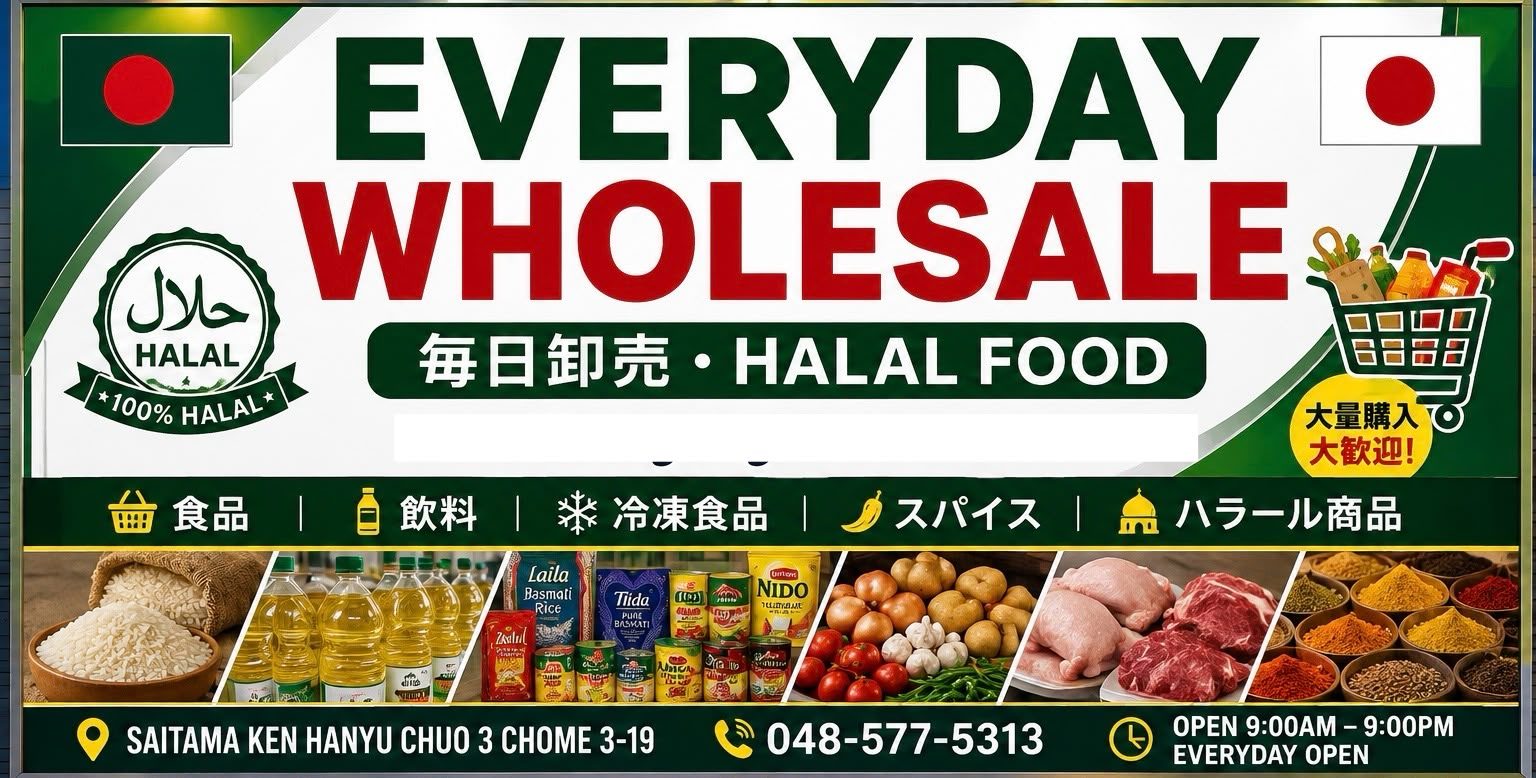
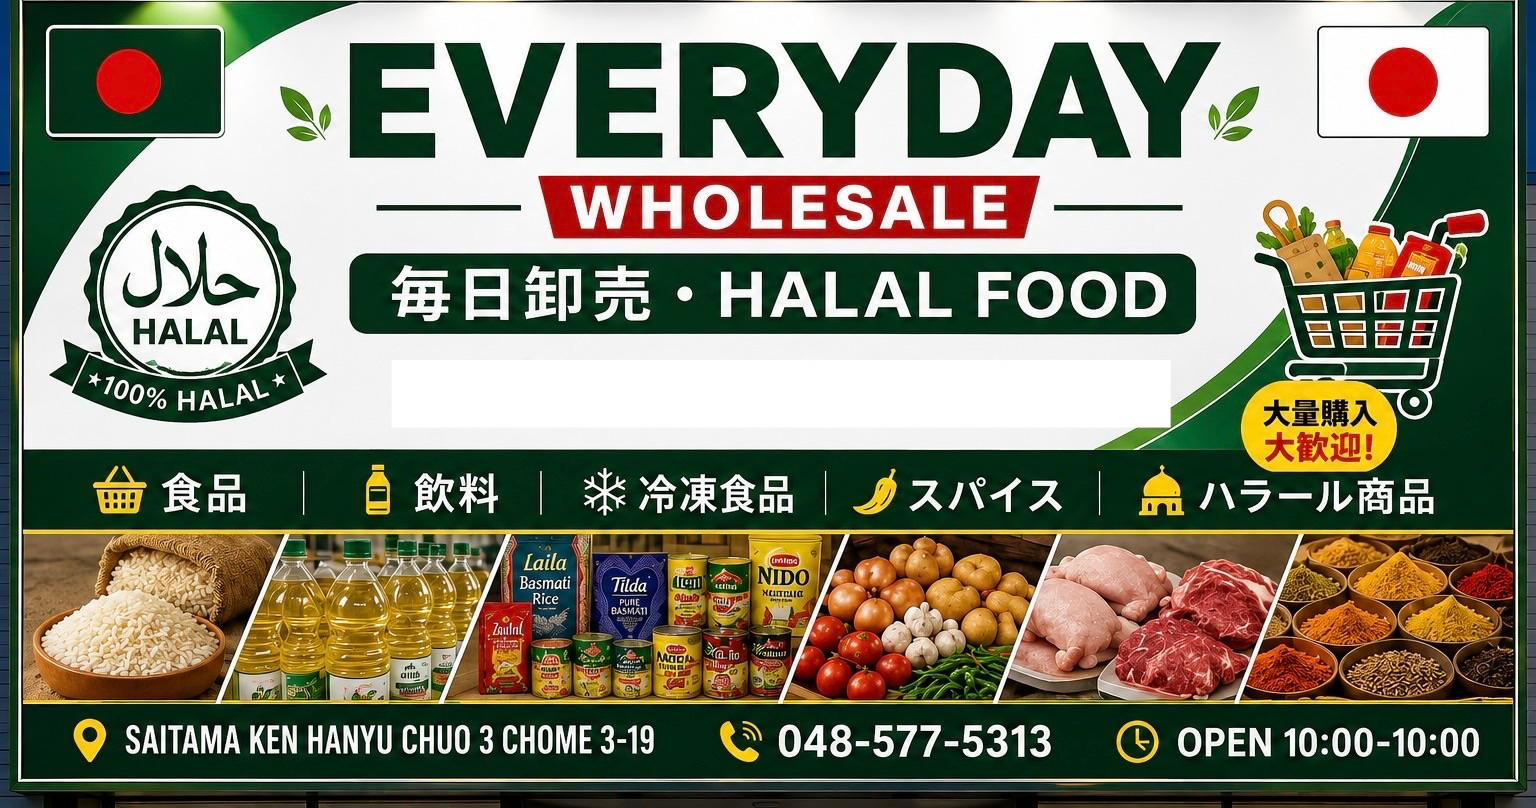
fix: product card spacing

diff --git a/lib/features/product/presentation/widgets/product_card.dart b/lib/features/product/presentation/widgets/product_card.dart
@@ -69,11 +69,16 @@ class _ProductCardState extends State<ProductCard> {
                 child: Column(
                   crossAxisAlignment: CrossAxisAlignment.start,
                   children: [
-                    Text(
-                      product.name,
-                      style: AppTextStyles.body.copyWith(fontWeight: FontWeight.w600),
-                      maxLines: 2,
-                      overflow: TextOverflow.ellipsis,
+                    SizedBox(
+                      // Reserves space for 2 lines up front so shorter titles
+                      // don't pull the price/rating row up with them.
+                      height: 36,
+                      child: Text(
+                        product.name,
+                        style: AppTextStyles.body.copyWith(fontWeight: FontWeight.w600, height: 1.3),
+                        maxLines: 2,
+                        overflow: TextOverflow.ellipsis,
+                      ),
                     ),
                     const SizedBox(height: 2),
                     Text(

diff --git a/lib/features/splash/presentation/pages/splash_page.dart b/lib/features/splash/presentation/pages/splash_page.dart
@@ -6,7 +6,6 @@ import '../../../../config/di/injection_container.dart';
 import '../../../../config/routes/route_paths.dart';
 import '../../../../core/constants/asset_paths.dart';
 import '../../../../shared/theme/app_colors.dart';
-import '../../../../shared/widgets/loaders/app_loader.dart';
 import '../bloc/splash_bloc.dart';
 import '../bloc/splash_event.dart';
 import '../bloc/splash_state.dart';
@@ -27,14 +26,7 @@ class SplashPage extends StatelessWidget {
         child: Scaffold(
           backgroundColor: AppColors.surface,
           body: Center(
-            child: Column(
-              mainAxisSize: MainAxisSize.min,
-              children: [
-                Image.asset(AssetPaths.logo, width: 180),
-                const SizedBox(height: 32),
-                const AppLoader(size: 28),
-              ],
-            ),
+            child: Image.asset(AssetPaths.logo, width: 180),
           ),
         ),
       ),

diff --git a/lib/features/product/presentation/pages/product_list_page.dart b/lib/features/product/presentation/pages/product_list_page.dart
@@ -121,7 +121,7 @@ class _ProductListBody extends StatelessWidget {
         crossAxisCount: 2,
         mainAxisSpacing: AppSpacing.sm,
         crossAxisSpacing: AppSpacing.sm,
-        childAspectRatio: 0.6,
+        childAspectRatio: 0.64,
       ),
       itemBuilder: (context, index) {
         final product = products[index];
